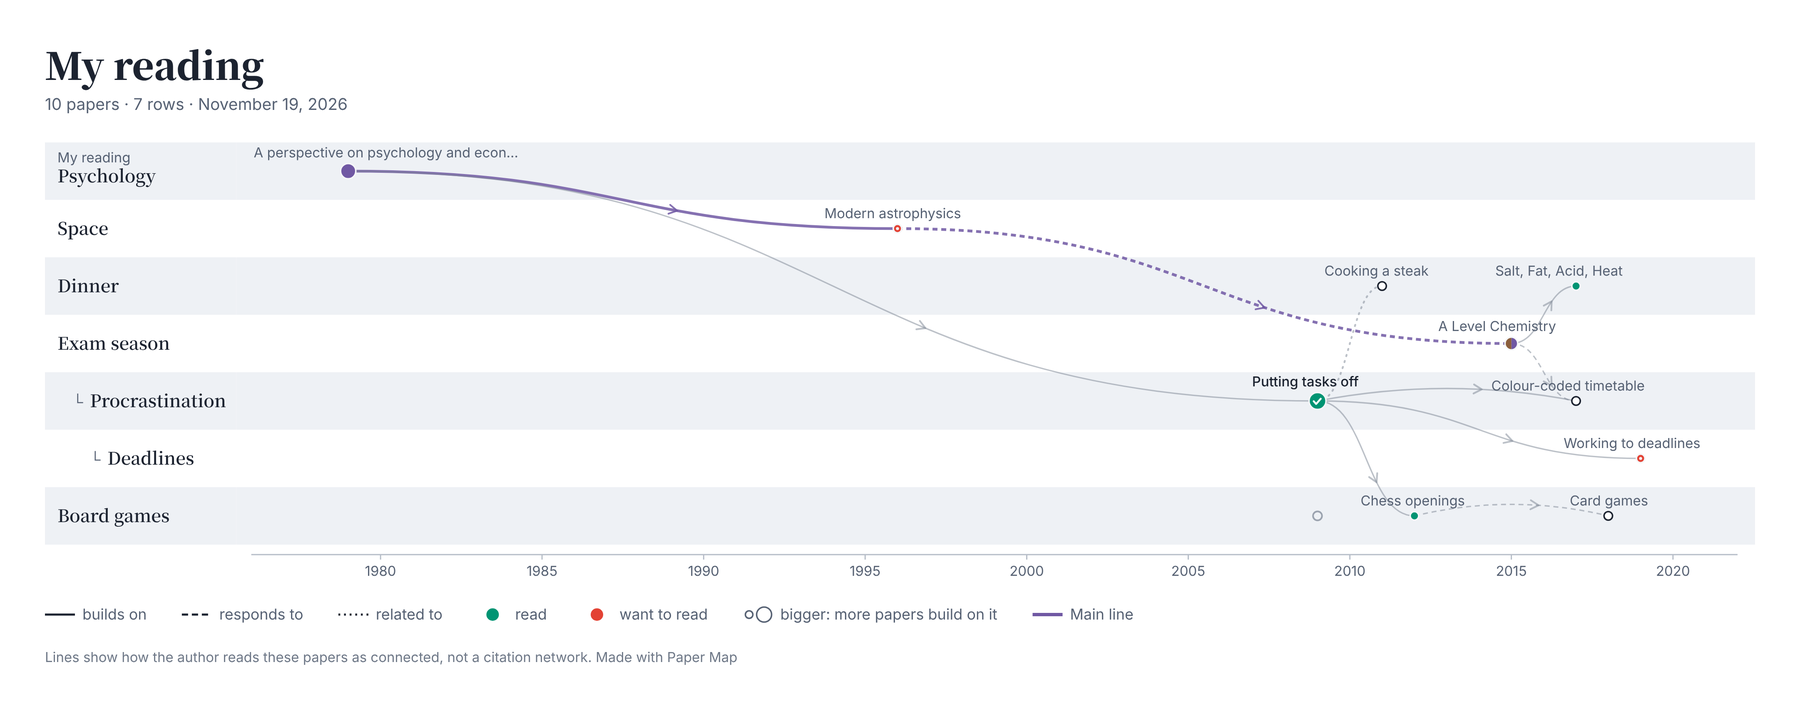
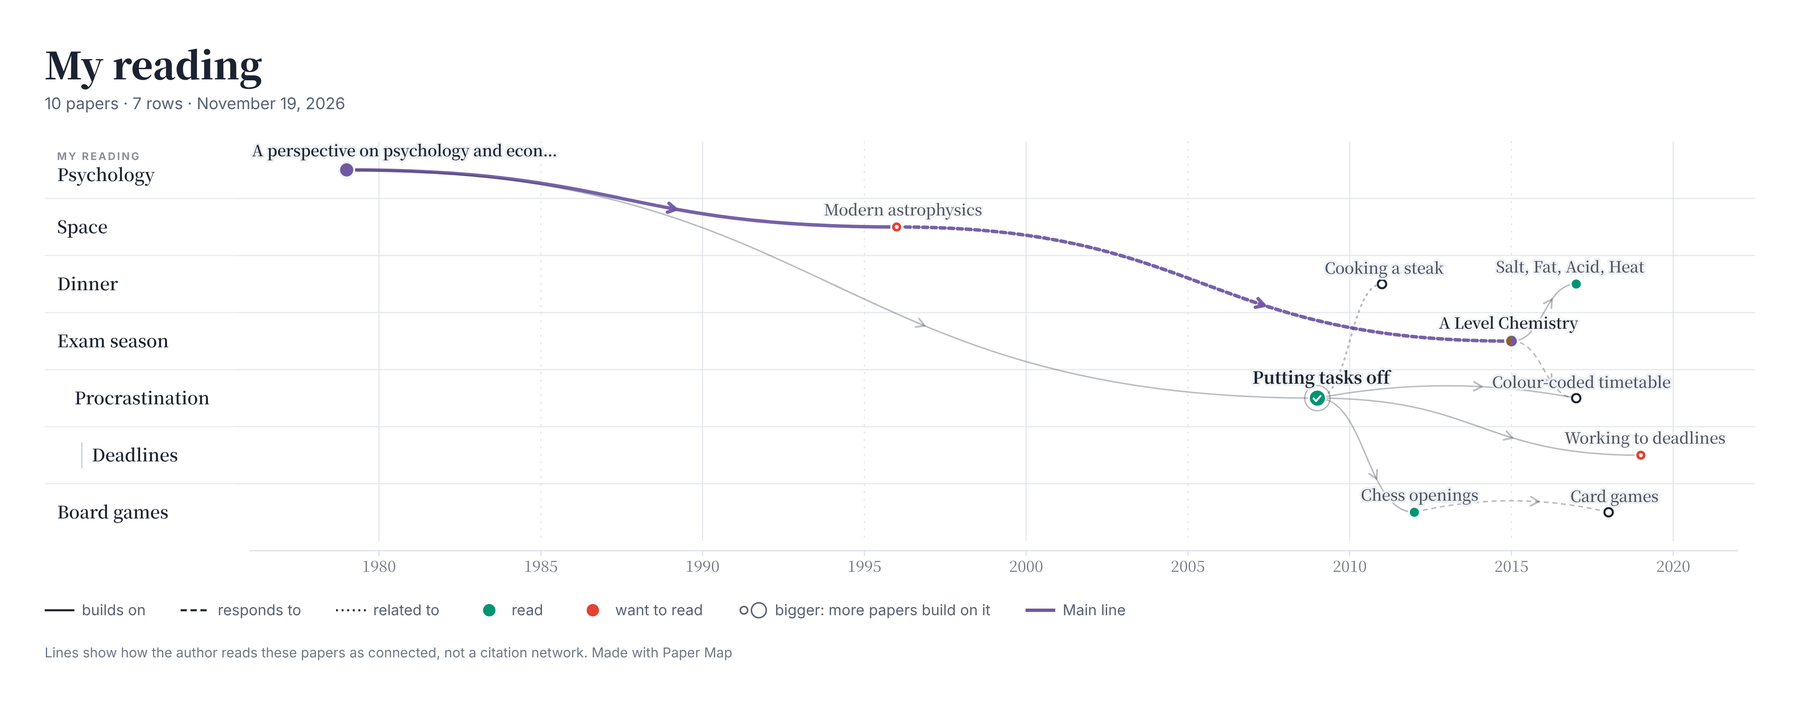
UI Update

diff --git a/index.html b/index.html
@@ -1340,6 +1340,133 @@ tr:hover .row-more .more-btn,tr:focus-within .row-more .more-btn,.row-more .more
 .toc-sub:hover > .toc-link .n,.toc-sub:focus-within > .toc-link .n{opacity:0}
 .toc-subs .toc-link{padding-top:.36em;padding-bottom:.36em}
 .toc-subs > li{margin:1px 0}
+
+/* ===================== tactile buttons: raised at rest, lifted on hover, pressed in when pushed ===================== */
+:root{
+  --k-top:#FFFFFF; --k-bot:#F3F5F8; --k-edge:rgba(28,35,48,.13); --k-edge-hi:rgba(28,35,48,.26);
+  --k-hl:inset 0 1px 0 rgba(255,255,255,.95);
+  --k-rest:0 1px 1px rgba(28,35,48,.05),0 2px 4px rgba(28,35,48,.06);
+  --k-lift:0 2px 3px rgba(28,35,48,.07),0 6px 14px rgba(28,35,48,.10);
+  --k-press:inset 0 1.5px 3px rgba(28,35,48,.16),inset 0 0 0 1px rgba(28,35,48,.05);
+  --k-ink-top:#3A4352; --k-ink-bot:#1C2330; --k-track:rgba(28,35,48,.065);
+}
+:root[data-theme="dark"]{
+  --k-top:#2B313B; --k-bot:#232831; --k-edge:rgba(255,255,255,.09); --k-edge-hi:rgba(255,255,255,.2);
+  --k-hl:inset 0 1px 0 rgba(255,255,255,.07);
+  --k-rest:0 1px 1px rgba(0,0,0,.35),0 2px 5px rgba(0,0,0,.28);
+  --k-lift:0 2px 4px rgba(0,0,0,.4),0 8px 18px rgba(0,0,0,.35);
+  --k-press:inset 0 2px 4px rgba(0,0,0,.45);
+  --k-ink-top:#F4F6F9; --k-ink-bot:#D9DEE6; --k-track:rgba(255,255,255,.06);
+}
+@media (prefers-color-scheme: dark){ :root:not([data-theme="light"]){
+  --k-top:#2B313B; --k-bot:#232831; --k-edge:rgba(255,255,255,.09); --k-edge-hi:rgba(255,255,255,.2);
+  --k-hl:inset 0 1px 0 rgba(255,255,255,.07);
+  --k-rest:0 1px 1px rgba(0,0,0,.35),0 2px 5px rgba(0,0,0,.28);
+  --k-lift:0 2px 4px rgba(0,0,0,.4),0 8px 18px rgba(0,0,0,.35);
+  --k-press:inset 0 2px 4px rgba(0,0,0,.45);
+  --k-ink-top:#F4F6F9; --k-ink-bot:#D9DEE6; --k-track:rgba(255,255,255,.06);
+} }
+button,.btn,[role="button"],label.on,.ex-seg label{-webkit-tap-highlight-color:transparent;touch-action:manipulation}
+.btn,.depth-ctl .dchip,.ex-chips .dchip,.lens-ctl .dchip,.dchip,.stbtn,.relchip,button.tagchip,.hf-bar .lens-btn,.bc-x{
+  transition:transform .14s cubic-bezier(.2,.8,.2,1),box-shadow .18s ease,background .18s ease,border-color .18s ease,color .18s ease;
+}
+/* plain buttons */
+.btn{border-radius:10px;border:1px solid var(--k-edge);background:linear-gradient(var(--k-top),var(--k-bot));box-shadow:var(--k-hl),var(--k-rest);padding:.42em .95em;font-weight:500;color:var(--ink)}
+@media (hover:hover){ .btn:hover{border-color:var(--k-edge-hi);box-shadow:var(--k-hl),var(--k-lift);transform:translateY(-1px)} }
+.btn:active{transform:translateY(.5px) scale(.97);box-shadow:var(--k-press);background:var(--k-bot);transition-duration:.06s}
+.btn:focus-visible{outline:2px solid var(--focus);outline-offset:2px}
+.btn.primary{border-color:transparent;color:var(--surface);background:linear-gradient(var(--k-ink-top),var(--k-ink-bot));box-shadow:inset 0 1px 0 rgba(255,255,255,.18),0 1px 2px rgba(28,35,48,.2),0 4px 10px rgba(28,35,48,.18)}
+@media (hover:hover){ .btn.primary:hover{box-shadow:inset 0 1px 0 rgba(255,255,255,.18),0 2px 4px rgba(28,35,48,.22),0 8px 18px rgba(28,35,48,.22)} }
+.btn.primary:active{background:var(--k-ink-bot);box-shadow:inset 0 2px 5px rgba(0,0,0,.35)}
+.btn:disabled,.btn[disabled]{opacity:.55;transform:none;box-shadow:var(--k-hl)}
+/* + New paper ▾ : one raised capsule with a hairline between its halves */
+.add-split{border-radius:10px;box-shadow:var(--k-rest)}
+.add-split .add-paper,.add-split .add-more{box-shadow:var(--k-hl);border-color:var(--k-edge)}
+.add-split .add-paper{border-radius:10px 0 0 10px}
+.add-split .add-more{border-radius:0 10px 10px 0;border-left:1px solid var(--k-edge);background:linear-gradient(var(--k-top),var(--k-bot))}
+@media (hover:hover){ .add-split .add-paper:hover,.add-split .add-more:hover{transform:none;box-shadow:var(--k-hl);background:linear-gradient(var(--k-top),var(--k-top))} .add-split:hover{box-shadow:var(--k-lift)} }
+.add-split .add-paper:active,.add-split .add-more:active{transform:scale(.97);box-shadow:var(--k-press);background:var(--k-bot)}
+/* pills: How far, Lens, export choices */
+.depth-ctl .dchip,.ex-chips .dchip,.lens-ctl .dchip,.dchip{border:1px solid var(--k-edge);border-radius:999px;background:linear-gradient(var(--k-top),var(--k-bot));box-shadow:var(--k-hl),0 1px 2px rgba(28,35,48,.06);color:var(--ink)}
+@media (hover:hover){ .depth-ctl .dchip:hover,.ex-chips .dchip:hover,.lens-ctl .dchip:hover,.dchip:hover{border-color:var(--k-edge-hi);transform:translateY(-1px);box-shadow:var(--k-hl),0 3px 8px rgba(28,35,48,.10)} }
+.depth-ctl .dchip:active,.ex-chips .dchip:active,.lens-ctl .dchip:active,.dchip:active{transform:scale(.95);box-shadow:var(--k-press);transition-duration:.06s}
+.depth-ctl .dchip.on,.ex-chips .dchip.on,.lens-ctl .dchip.on,.dchip.on{border-color:transparent;color:var(--surface);background:linear-gradient(var(--k-ink-top),var(--k-ink-bot));box-shadow:inset 0 1px 0 rgba(255,255,255,.16),0 1px 2px rgba(28,35,48,.2),0 3px 8px rgba(28,35,48,.14)}
+.hf-bar .lens-btn{border:1px solid var(--k-edge);background:linear-gradient(var(--k-top),var(--k-bot));box-shadow:var(--k-hl),var(--k-rest);font-weight:600}
+@media (hover:hover){ .hf-bar .lens-btn:hover{transform:translateY(-1px);box-shadow:var(--k-hl),var(--k-lift)} }
+.hf-bar .lens-btn:active{transform:scale(.95);box-shadow:var(--k-press)}
+/* Want to read / Read */
+.stbtn{border:1px solid var(--k-edge);background:linear-gradient(var(--k-top),var(--k-bot));box-shadow:var(--k-hl),0 1px 2px rgba(28,35,48,.06);color:var(--ink);padding:.26em .85em}
+@media (hover:hover){ .stbtn:hover{transform:translateY(-1px);border-color:var(--k-edge-hi);box-shadow:var(--k-hl),0 3px 8px rgba(28,35,48,.10)} }
+.stbtn:active{transform:scale(.94);box-shadow:var(--k-press);transition-duration:.06s}
+.stbtn.read[aria-pressed="true"]{border-color:color-mix(in srgb,var(--green) 55%,transparent);background:linear-gradient(color-mix(in srgb,var(--green) 16%,var(--k-top)),color-mix(in srgb,var(--green) 26%,var(--k-bot)));color:var(--green-ink);box-shadow:inset 0 1px 0 rgba(255,255,255,.5),0 1px 2px rgba(20,90,60,.18)}
+.stbtn.want[aria-pressed="true"]{border-color:color-mix(in srgb,var(--red) 55%,transparent);background:linear-gradient(color-mix(in srgb,var(--red) 14%,var(--k-top)),color-mix(in srgb,var(--red) 24%,var(--k-bot)));color:var(--red-ink);box-shadow:inset 0 1px 0 rgba(255,255,255,.5),0 1px 2px rgba(150,40,30,.18)}
+/* chips for topics and tags */
+.relchip,button.tagchip{border:1px solid var(--k-edge);background:linear-gradient(var(--k-top),var(--k-bot));box-shadow:var(--k-hl),0 1px 1.5px rgba(28,35,48,.06)}
+@media (hover:hover){ .relchip:hover,button.tagchip:hover{transform:translateY(-1px);box-shadow:var(--k-hl),0 3px 7px rgba(28,35,48,.10)} }
+.relchip:active,button.tagchip:active{transform:scale(.95);box-shadow:var(--k-press)}
+/* segmented choices: a sunken track with a raised thumb */
+.ex-seg,.seg{border:0;border-radius:11px;padding:3px;gap:2px;background:var(--k-track);box-shadow:inset 0 1px 2px rgba(28,35,48,.10)}
+.ex-seg label,.seg button{border:0;border-radius:8px;color:var(--muted);transition:background .18s ease,box-shadow .18s ease,color .18s ease,transform .12s ease;background:transparent}
+.ex-seg label:active,.seg button:active{transform:scale(.96)}
+.ex-seg label.on,.seg button[aria-pressed="true"]{background:linear-gradient(var(--k-top),var(--k-bot));color:var(--ink);font-weight:600;box-shadow:var(--k-hl),0 1px 2px rgba(28,35,48,.12),0 2px 6px rgba(28,35,48,.08)}
+/* round and bare icon buttons */
+.bc-x{background:linear-gradient(var(--k-top),var(--k-bot));border:1px solid var(--k-edge);box-shadow:var(--k-hl),var(--k-rest)}
+.bc-x:active{transform:scale(.9);box-shadow:var(--k-press)}
+.more-btn{transition:background .15s ease,transform .12s ease,color .15s ease}
+@media (hover:hover){ .more-btn:hover{background:var(--k-track);color:var(--ink)} }
+.more-btn:active,.more-btn.open{background:color-mix(in srgb,var(--ink) 12%,transparent);transform:scale(.9);color:var(--ink)}
+#btnSettings{transition:color .15s ease,transform .25s cubic-bezier(.2,.8,.2,1)}
+#btnSettings:active{transform:rotate(-30deg) scale(.9)}
+.linkbtn:active{opacity:.6}
+.fm-item:active{background:color-mix(in srgb,var(--ink) 10%,transparent)}
+.toc-link:active{transform:scale(.985)}
+.toc-link{transition:transform .12s ease}
+@media (prefers-reduced-motion: reduce){
+  .btn,.dchip,.stbtn,.relchip,button.tagchip,.hf-bar .lens-btn,.bc-x,.more-btn,#btnSettings,.toc-link,.ex-seg label,.seg button{transition:none!important;transform:none!important}
+}
+
+/* ===================== the map, as a printed atlas: a white sheet, a fine year grid, ruled rows, serif names ===================== */
+.map-box{background:var(--surface);border-radius:16px;box-shadow:0 1px 2px rgba(28,35,48,.05),0 10px 30px rgba(28,35,48,.06);padding:6px 0 0}
+:root[data-theme="dark"] .map-box{box-shadow:0 1px 2px rgba(0,0,0,.4),0 10px 30px rgba(0,0,0,.35)}
+.map-axis{background:var(--surface);border-top:1px solid var(--rule)}
+.net .band{fill:transparent}
+.map-labels button.band{background:transparent}
+.net .row-rule{stroke:var(--rule);stroke-width:1;opacity:.7}
+.net .topic-rule{stroke:var(--ink);stroke-width:1.3;opacity:.7}
+.net .grid{stroke:var(--rule);stroke-width:1;stroke-dasharray:1.5 4.5;opacity:.85}
+.net .grid.major{stroke-dasharray:none;opacity:.75}
+/* lines: graphite by default, colour lines bold and round-ended */
+.net .edge{stroke:var(--ink);opacity:.3;stroke-width:1.2}
+.net .edge.r{stroke-width:1.6}
+.net .edge.br{stroke:var(--br);opacity:.95;stroke-width:2.8;stroke-linecap:round}
+.net.focus .edge{opacity:.05}
+.net.focus .edge.hot{opacity:.95}
+/* dots: crisp rims; landmarks ringed */
+.net .dot{stroke-width:1.6}
+.net .node.st-read .dot,.net .node.st-want .dot{stroke:var(--surface);stroke-width:1.4}
+.net .ring{fill:none;stroke:var(--ink);stroke-width:1.1;opacity:.32}
+.net .node.sel .ring{opacity:.7}
+.net.focus .node:not(.hot) .ring{opacity:.08}
+/* names: serif titles, small-caps authors */
+.net .lbl{font-family:var(--serif);font-size:12.5px;font-weight:600;fill:var(--ink);letter-spacing:-.005em}
+.net .lbl.p1{font-weight:500;fill:color-mix(in srgb,var(--ink) 78%,transparent)}
+.net .lbl.p3{font-size:13.5px;font-weight:700}
+.net .lbl-au{font-family:var(--sans);font-size:8.6px;letter-spacing:.07em;text-transform:uppercase;fill:var(--muted)}
+.net .ghost-lbl{font-family:var(--serif)}
+/* the year axis: serif years, decades heavier */
+.net-axis .tick,.map-axis .tick{font-family:var(--serif);font-size:12.5px;fill:var(--ink);opacity:.62;font-variant-numeric:oldstyle-nums}
+.net-axis .axis{stroke:var(--rule)}
+/* row labels: a topic starts with its name in small capitals; nested rows sit on a quiet guide */
+.map-labels button .lt{font:700 .64rem/1.25 var(--sans) !important;letter-spacing:.14em;text-transform:uppercase;color:var(--ink) !important;opacity:.5;margin-bottom:2px}
+.map-labels button .nm{font-size:calc(.98rem - min(var(--d, 0), 2) * .07rem)}
+.map-labels button{background-image:linear-gradient(var(--rule-strong),var(--rule-strong));background-repeat:no-repeat;background-size:1px 46%;background-position:calc(6px + (var(--d, 0) - 1) * 14px) 50%;padding-left:calc(10px + var(--d, 0) * 14px) !important}
+.map-labels button.tl-rel,.map-labels button.tl-hover,.map-labels button.drop-target{background-image:none}
+.map-labels button.on{text-decoration:none;box-shadow:inset 3px 0 0 var(--ink)}
+.map-labels button:hover{text-decoration:none;background-color:color-mix(in srgb,var(--ink) 4%,transparent)}
+
+/* the current row is marked once: a bar at its edge (no extra arrow) */
+.map-labels button.on::before{display:none}
+.map-labels button.on .nm{font-weight:700}
 </style>
 </head>
 <body>
@@ -2983,12 +3110,13 @@ function buildExportSVG(o){
   const ox = M, oy = M + titleH;
   rows.forEach((r, i) => {
     const y = oy + cap.top + i * cap.laneH;
-    if(i % 2 === 0) s += '<rect x="' + ox + '" y="' + y + '" width="' + labW + '" height="' + cap.laneH + '" style="fill:' + cap.band + '"/>';
+    /* as on the map: ruled rows, a topic opening with its name in small capitals, nested rows on a fine guide */
+    if(i > 0) s += '<line x1="' + ox + '" x2="' + (ox + labW) + '" y1="' + y + '" y2="' + y + '" style="stroke:' + (r.ctx ? cap.ink : cap.rule || '#E3E6EB') + ';stroke-width:' + (r.ctx ? 1.3 : 1) + ';opacity:' + (r.ctx ? .7 : .7) + '"/>';
     const tx = ox + 10 + r.depth * 14;
-    if(r.ctx) s += '<text x="' + tx + '" y="' + (y + cap.laneH / 2 - 7) + '" style="font:' + ctxFont.replace(/"/g, "'") + ';fill:' + cap.muted + '">' + xmlEsc(r.ctx) + '</text>';
+    if(r.ctx) s += '<text x="' + tx + '" y="' + (y + cap.laneH / 2 - 8) + '" style="font:700 8.5px ' + xmlEsc(sans) + ';letter-spacing:1.3px;fill:' + cap.ink + ';opacity:.5">' + xmlEsc(String(r.ctx).toUpperCase()) + '</text>';
     const ny = y + cap.laneH / 2 + (r.ctx ? 9 : 5);
-    if(r.depth) s += '<text x="' + (tx - 2) + '" y="' + ny + '" style="font:400 12px ' + xmlEsc(sans) + ';fill:' + cap.muted + '">└</text>';
-    s += '<text x="' + (tx + (r.depth ? 12 : 0)) + '" y="' + ny + '" style="font:' + (r.concepts ? '600 13px ' + xmlEsc(sans) : labFont.replace(/"/g, "'")) + ';fill:' + (r.concepts ? cap.muted : cap.ink) + '">' + xmlEsc(r.name) + '</text>';
+    if(r.depth >= 2) s += '<line x1="' + (tx - 8) + '" x2="' + (tx - 8) + '" y1="' + (y + cap.laneH * .27) + '" y2="' + (y + cap.laneH * .73) + '" style="stroke:' + (cap.ruleStrong || '#C9CED6') + ';stroke-width:1"/>';
+    s += '<text x="' + tx + '" y="' + ny + '" style="font:' + (r.concepts ? '600 13px ' + xmlEsc(sans) : labFont.replace(/"/g, "'")) + ';fill:' + (r.concepts ? cap.muted : cap.ink) + '">' + xmlEsc(r.name) + '</text>';
   });
   const plot = cap.plot; plot.setAttribute('x', ox + labW); plot.setAttribute('y', oy); plot.setAttribute('width', cap.W); plot.setAttribute('height', cap.H);
   plot.removeAttribute('style');
@@ -3905,7 +4033,7 @@ function labelKeepSet(items, laneIndex){
 function mapTitle(e){ const t = String(e.short || e.t || '').trim(); return t.length > 38 ? t.slice(0, 36).replace(/[\s,.:;–-]+$/, '') + '…' : t; }
 function mapAuthors(e){ return [shortAu(e.au), e.y].filter(Boolean).join(' · '); }
 function dotTier(e){ const n = builtOnBy(e.id); return n >= 3 ? 3 : n >= 1 ? 2 : 1; }
-function dotR(e, narrow){ return Math.min(8.6, 3.4 + 1.7 * Math.log2(1 + builtOnBy(e.id))) * (narrow ? 0.9 : 1); }
+function dotR(e, narrow){ const base = Math.min(8.6, 3.4 + 1.7 * Math.log2(1 + builtOnBy(e.id))); return Math.max(base, stOf(e) ? 4.4 : 0) * (narrow ? 0.9 : 1); }
 function niceStep(span, maxTicks){
   const raw = span / Math.max(1, maxTicks);
   const steps = [1, 2, 5, 10, 20, 25, 50, 100, 200, 250, 500];
@@ -4061,7 +4189,7 @@ function renderMapLabels(lanes, laneH){
     const groups = []; rels.forEach(r => { let g = groups.find(x => x.bid === r.bid); if(!g){ g = {bid: r.bid, color: r.color, name: r.name, os: []}; groups.push(g); } g.os.push(r.o); });
     const lit = litTl[tid];
     const badges = groups.length ? '<span class="tl-badges">' + groups.map(g => '<span class="tl-badge" data-tl-group="' + g.bid + '"' + (g.color ? ' style="--tlc:' + g.color + '"' : '') + ' title="' + esc((g.name ? g.name + ': ' : 'Related to ') + g.os.map(topicNodeName).join(', ')) + '">⇄</span>').join('') + '</span>' : '';
-    return '<button type="button" class="' + (i % 2 === 0 ? 'band' : '') + (ln.sub.id === ui.sub && ui.page !== 'concepts' ? ' on' : '') + (lit ? ' tl-rel' + (lit.length > 1 ? ' tl-multi' : '') : '') + '" data-view="' + ln.sub.id + '" data-tl-id="' + tid + '" data-tl-rel="' + esc(rels.map(r => r.o + '~' + r.bid + '~' + r.color).join(' ')) + '" style="--d:' + dd + ';--nb:' + groups.length + (lit ? ';' + tlStyle(lit, '--tlc') : '') + '" title="Open “' + esc(full) + '”' + (rels.length ? ' · related to ' + esc(rels.map(r => topicNodeName(r.o)).join(', ')) : '') + '"><span class="lab-in"><span class="full">' + (ctx ? '<span class="lt">' + esc(ctx) + '</span>' : '') + '<span class="nm">' + (dd ? '<span class="lane-in" aria-hidden="true">└</span>' : '') + esc(name) + '</span></span>' + badges + '<span class="short">' + esc(name.slice(0, 4)) + '</span></span></button>';
+    return '<button type="button" class="' + (i % 2 === 0 ? 'band' : '') + (ln.sub.id === ui.sub && ui.page !== 'concepts' ? ' on' : '') + (lit ? ' tl-rel' + (lit.length > 1 ? ' tl-multi' : '') : '') + '" data-view="' + ln.sub.id + '" data-tl-id="' + tid + '" data-tl-rel="' + esc(rels.map(r => r.o + '~' + r.bid + '~' + r.color).join(' ')) + '" style="--d:' + dd + ';--nb:' + groups.length + (lit ? ';' + tlStyle(lit, '--tlc') : '') + '" title="Open “' + esc(full) + '”' + (rels.length ? ' · related to ' + esc(rels.map(r => topicNodeName(r.o)).join(', ')) : '') + '"><span class="lab-in"><span class="full">' + (ctx ? '<span class="lt">' + esc(ctx) + '</span>' : '') + '<span class="nm">' + '' + esc(name) + '</span></span>' + badges + '<span class="short">' + esc(name.slice(0, 4)) + '</span></span></button>';
   }).join('');
   mapLabels.classList.toggle('has-tl', !!arcsSvg);
   if(arcsSvg) mapLabels.insertAdjacentHTML('beforeend', arcsSvg);
@@ -4127,8 +4255,12 @@ function renderMap(force){
   s += '<rect class="bg" x="0" y="0" width="' + W + '" height="' + H + '" fill="transparent"></rect>';
   lanes.forEach((ln, i) => {
     if(i % 2 === 0) s += '<rect class="band" x="0" y="' + (top + i * laneH) + '" width="' + W + '" height="' + laneH + '"></rect>';
-    if(i > 0 && lanes[i - 1].topic.id !== ln.topic.id) s += '<line class="topic-rule" x1="0" x2="' + W + '" y1="' + (top + i * laneH) + '" y2="' + (top + i * laneH) + '"></line>';
+    const newTopic = i > 0 && lanes[i - 1].topic.id !== ln.topic.id;
+    if(i > 0) s += '<line class="' + (newTopic ? 'topic-rule' : 'row-rule') + '" x1="0" x2="' + W + '" y1="' + (top + i * laneH) + '" y2="' + (top + i * laneH) + '"></line>';
   });
+  { const gy0 = top, gy1 = top + lanes.length * laneH;
+    x.ticks.forEach(tk => { const gx = x(tk); if(gx < left - 1 || gx > W - right + 1) return;
+      s += '<line class="grid' + (tk % 10 === 0 ? ' major' : '') + '" x1="' + gx.toFixed(1) + '" x2="' + gx.toFixed(1) + '" y1="' + gy0 + '" y2="' + gy1 + '"></line>'; }); }
   /* the year axis is its own strip under the rows, so it stays in view while the rows scroll */
   let ax = '<line class="axis" x1="' + left + '" x2="' + (W - right) + '" y1="4" y2="4"></line>';
   x.ticks.forEach(t => {
@@ -4200,6 +4332,7 @@ function renderMap(force){
     if(st === 'want') extra = '<circle class="hole" cx="' + p.x.toFixed(1) + '" cy="' + p.y + '" r="' + Math.max(1.2, r * 0.36).toFixed(1) + '"></circle>';
     s += '<g class="' + cls + '" data-id="' + e.id + '" tabindex="0" role="button" aria-label="' + esc(label + (st === 'read' ? ' (read)' : st === 'want' ? ' (want to read)' : '')) + '">' +
       '<circle class="hit" cx="' + p.x.toFixed(1) + '" cy="' + p.y + '" r="12"></circle>' +
+      (dotTier(e) === 3 ? '<circle class="ring" cx="' + p.x.toFixed(1) + '" cy="' + p.y + '" r="' + (r + 3.4).toFixed(1) + '"></circle>' : '') +
       halves + '<circle class="dot" cx="' + p.x.toFixed(1) + '" cy="' + p.y + '" r="' + r.toFixed(1) + '"' + fill + '></circle>' + extra +
       '<title>' + esc(label) + '</title></g>';
   });
@@ -7298,6 +7431,7 @@ tocBody.addEventListener('drop', ev => {
   if(!s) return; ev.preventDefault(); ev.stopPropagation();
   moveEntryTo(id, s, s.hidden ? IDX.topics[IDX.topicOf[s.id]].name : [IDX.topics[IDX.topicOf[s.id]].name].concat(subPath(s)).join(' › '));
 }, true);
+document.addEventListener('touchstart', () => {}, {passive: true});
 let lastPtr = 'mouse', peekId = null;
 window.addEventListener('pointerdown', ev => { lastPtr = ev.pointerType || 'mouse'; }, true);
 mapSvg.addEventListener('click', ev => {

diff --git a/README.md b/README.md
@@ -19,21 +19,21 @@ A personal map of research, ideas and reading. I built it simply because I wante
 
 ## How it works
 
+Each paper is a dot in its topic's row, at its year. The more papers build on one, the bigger its dot. Each row names up to two of its most connected papers; point at any dot to see its title and authors. Click a dot and its lines light up; **How far**, in the bar under the map, reaches further, up to **Whole line**.
+
+![How each kind of line looks: builds on is solid, responds to is dashed, related to is dotted, a mention leaves a faint shadow in another field, related topics are marked ⇄](assets/lines-legend.svg)
+
+### Link with +
+
+![Double-clicking a paper, choosing Builds on, clicking the paper it builds on, then clicking the new line and changing it to Responds to](assets/link.gif)
+
+Double-click a dot and it turns into a black **+**. Say how it connects first, **Builds on**, **Leads to** or **Related to**, then click the other paper: the arrow points the right way from the start. Linked it wrongly? Click the line to change it, turn it round, give it a note and a colour, or remove it. Dragging a dot only ever moves it to another row.
+
 ### Cards
 
 ![Pressing a paper's card in a topic's list; it turns over into the full card with where it sits, its lines on a small timeline, its labels and notes; closing it turns it back](assets/card.gif)
 
 Every topic lists its papers as cards, in time order: green for read, red for want to read. Press one and it turns over into the full card: where it sits (change it right there), its lines on a small timeline, its labels and notes, and its PDF. Its **⋯** edits or deletes it.
-
-### Link with +
-
-Each paper is a dot in its topic's row, at its year. The more papers build on one, the bigger its dot. Each row names up to two of its most connected papers; point at any dot to see its title and authors. Click a dot and its lines light up; **How far**, in the bar under the map, reaches further, up to **Whole line**.
-
-![How each kind of line looks: builds on is solid, responds to is dashed, related to is dotted, a mention leaves a faint shadow in another field, related topics are marked ⇄](assets/lines-legend.svg)
-
-![Double-clicking a paper, choosing Builds on, clicking the paper it builds on, then clicking the new line and changing it to Responds to](assets/link.gif)
-
-Double-click a dot and it turns into a black **+**. Say how it connects first, **Builds on**, **Leads to** or **Related to**, then click the other paper: the arrow points the right way from the start. Linked it wrongly? Click the line to change it, turn it round, give it a note and a colour, or remove it. Dragging a dot only ever moves it to another row.
 
 ### Lens
 
